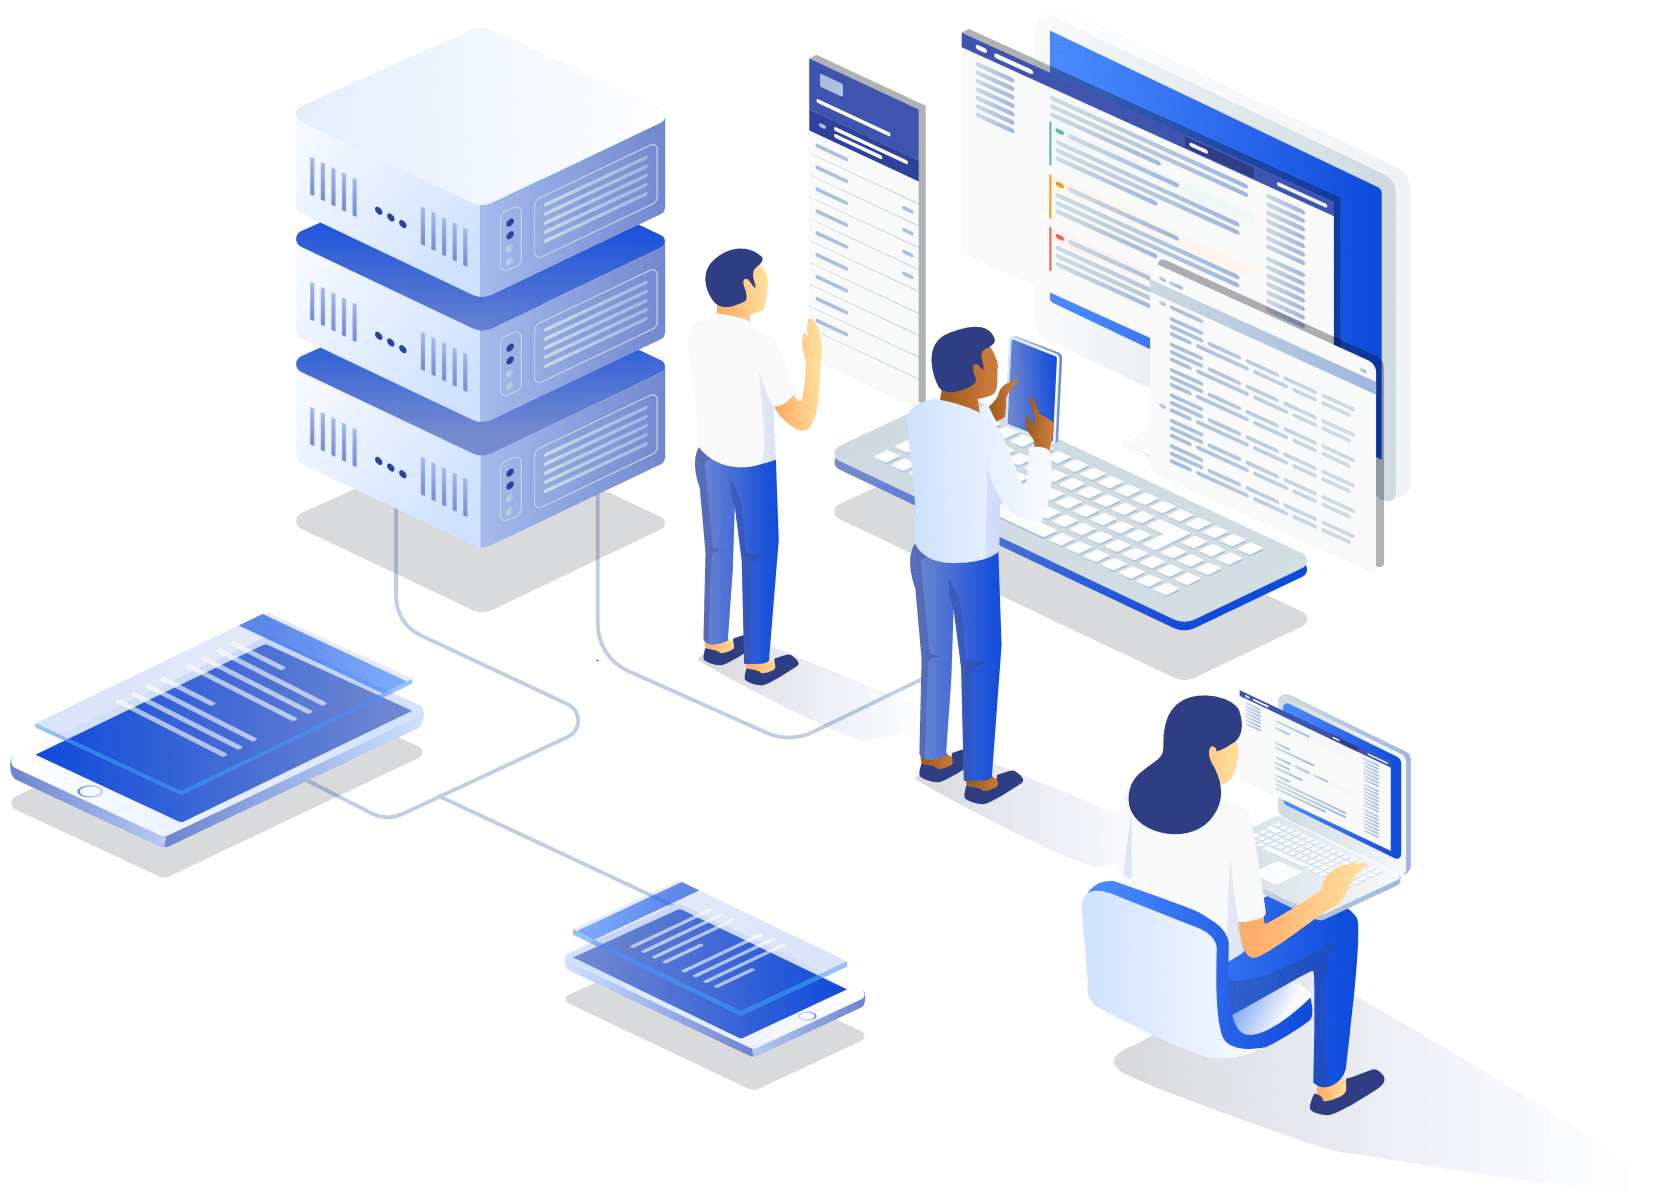
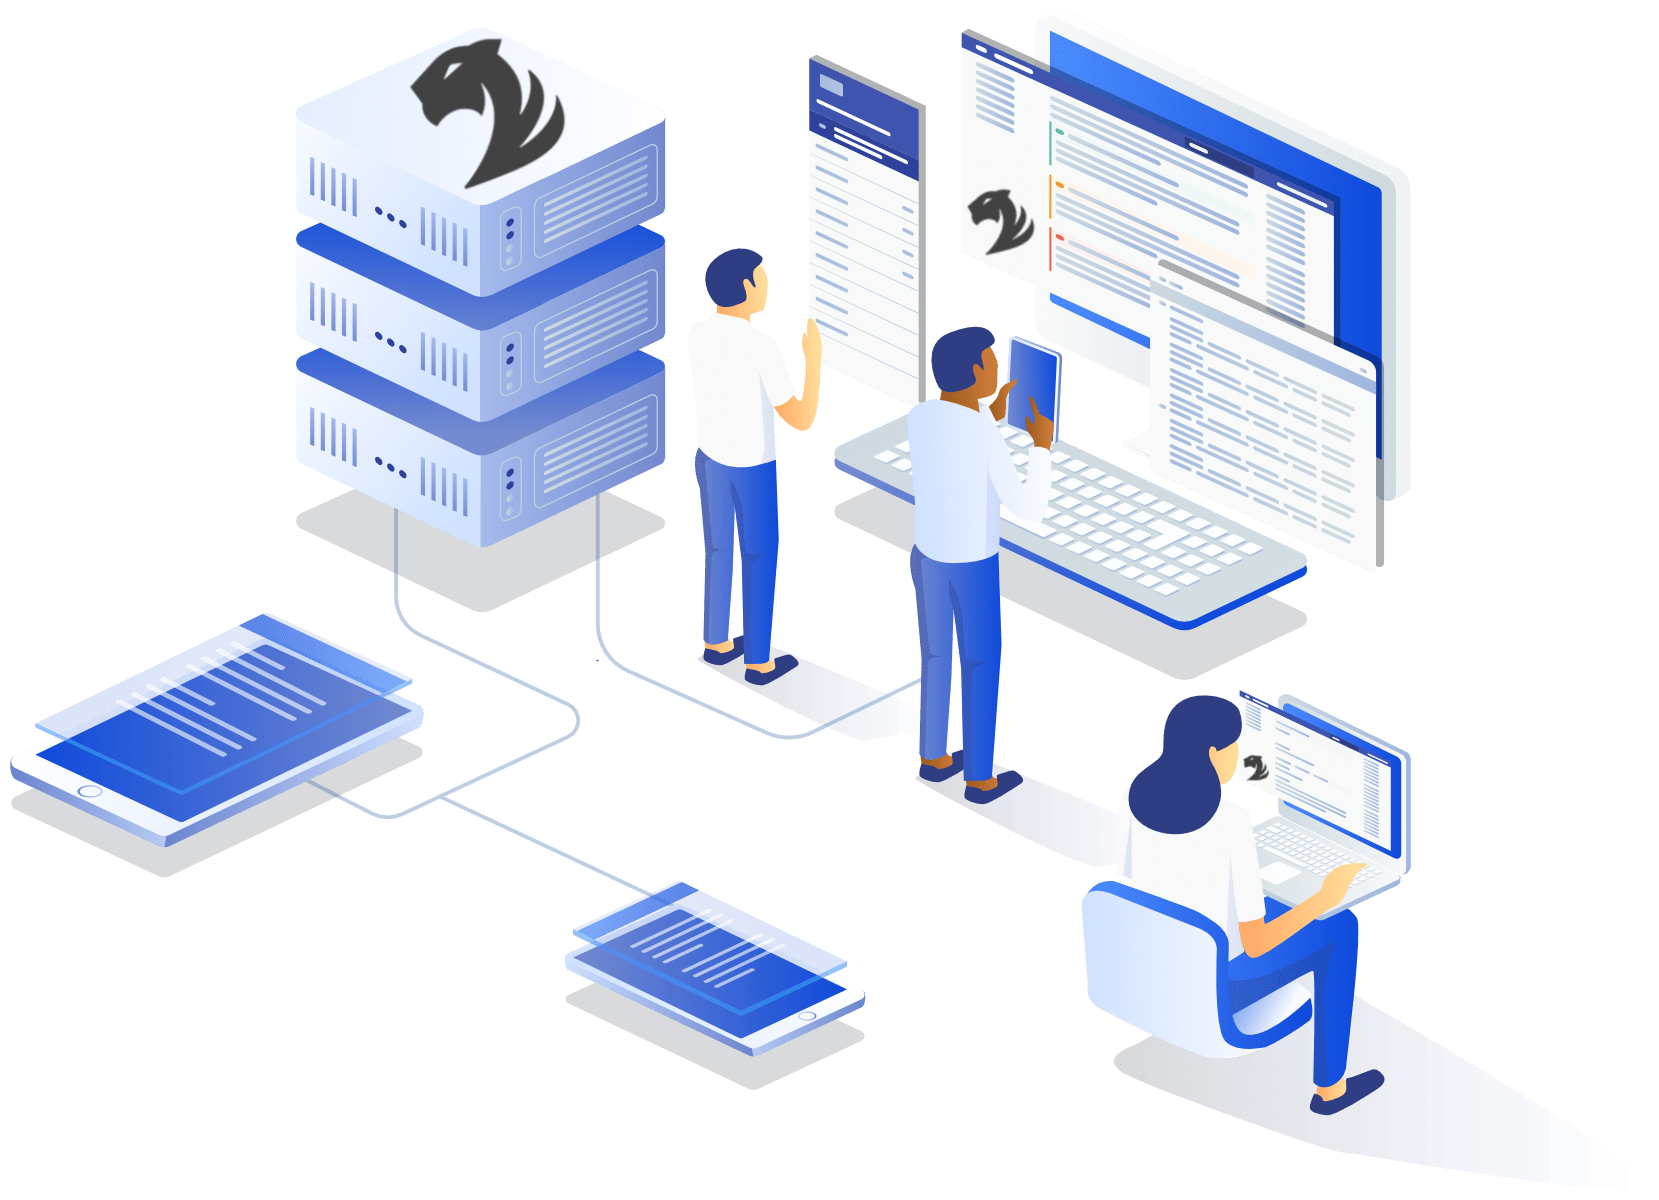
modify landing page

Changed region(s): [[0.2459, 0.0308, 0.3382, 0.1542], [0.5841, 0.1542, 0.6456, 0.2158], [0.7378, 0.6167, 0.7685, 0.6475]]

diff --git a/material/overrides/home.html b/material/overrides/home.html
@@ -12,13 +12,13 @@
           <img src="assets/images/illustration.png" alt="" width="1659" height="1200" draggable="false">
         </div>
         <div class="tx-hero__content">
-          <h1>Technical documentation that just works</h1>
-          <p>{{ config.site_description }}. Set up in 5 minutes.</p>
+          <h1>TigerGraph's Developer Portal</h1>
+          <p>{{ config.site_description }}</p>
           <a href="{{ page.next_page.url | url }}" title="{{ page.next_page.title | striptags }}" class="md-button md-button--primary">
-            Get started
+            Get Started
           </a>
           <a href="{{ config.repo_url }}" title="{{ lang.t('source.link.title') }}" class="md-button">
-            Go to GitHub
+            Go to Ecosys
           </a>
         </div>
       </div>

diff --git a/src/overrides/home.html b/src/overrides/home.html
@@ -78,20 +78,20 @@
         <!-- Hero content -->
         <div class="tx-hero__content">
           <h1>TigerGraph's Ecosystem Hub</h1>
-          <p>{{ config.site_description }}. Ready?</p>
+          <p>{{ config.site_description }}</p>
           <a
             href="{{ page.next_page.url | url }}"
             title="{{ page.next_page.title | striptags }}"
             class="md-button md-button--primary"
           >
-            Get started
+            Get Started
           </a>
           <a
             href="{{ config.repo_url }}"
             title="{{ lang.t('source.link.title') }}"
             class="md-button"
           >
-            Go to GitHub
+            Go to Ecosys
           </a>
         </div>
       </div>

diff --git a/material/overrides/main.html b/material/overrides/main.html
@@ -25,12 +25,12 @@
   <link rel="stylesheet" href="{{ 'assets/stylesheets/overrides.011ebae6.min.css' | url }}">
 {% endblock %}
 {% block announce %}
-  <a href="https://twitter.com/squidfunk">
-    For updates follow <strong>@squidfunk</strong> on
-    <span class="twemoji twitter">
-      {% include ".icons/fontawesome/brands/twitter.svg" %}
+  <a href="https://tigergraph2020.devpost.com/">
+    Join TigerGraphs First Ever Global <strong>Graphathon</strong> on
+    <span class="twemoji">
+      {% include ".icons/fontawesome/regular/code-solid.svg" %}
     </span>
-    <strong>Twitter</strong>
+    <strong>DevPost</strong>
   </a>
 {% endblock %}
 {% block content %}

diff --git a/src/overrides/main.html b/src/overrides/main.html
@@ -61,12 +61,12 @@
 
 <!-- Announcement bar -->
 {% block announce %}
-  <a href="https://twitter.com/squidfunk">
-    For updates follow <strong>@squidfunk</strong> on
-    <span class="twemoji twitter">
-      {% include ".icons/fontawesome/brands/twitter.svg" %}
+  <a href="https://tigergraph2020.devpost.com/">
+    Join today <strong>Graphathon</strong> on
+    <span class="twemoji devpost">
+      {% include "docs/assets/images/devpost-logo.png" %}
     </span>
-    <strong>Twitter</strong>
+    <strong>DevPost</strong>
   </a>
 {% endblock %}
 

diff --git a/README.md b/README.md
@@ -1,31 +1,3 @@
-<p align="center">
-  <a href="#">
-    <img src="#" width="320" alt="TigerGraph Ecosystem Hub">
-  </a>
-</p>
+# Documentation for TigerGraph
 
-<p align="center">
-  <strong>
-    A 
-    <a href="#">TigerGraph Ecosystem</a> 
-    theme for 
-    <a href="#">Hub</a>
-  </strong>
-</p>
-
-<p align="center">
-  A comprehenisive open-source developer portal that has company
-  and community built tools, scripts, patterns for TigerGraph's 
-  rich ecosystem in one plac.
-
-</p>
-
-<p align="center">
-  <a href="#">
-    <img src="#" width="700" />
-  </a>
-</p>
-
-
-## Features
-
+[https://herktg.github.io/tg-ecosys-docs/](https://herktg.github.io/tg-ecosys-docs/)
